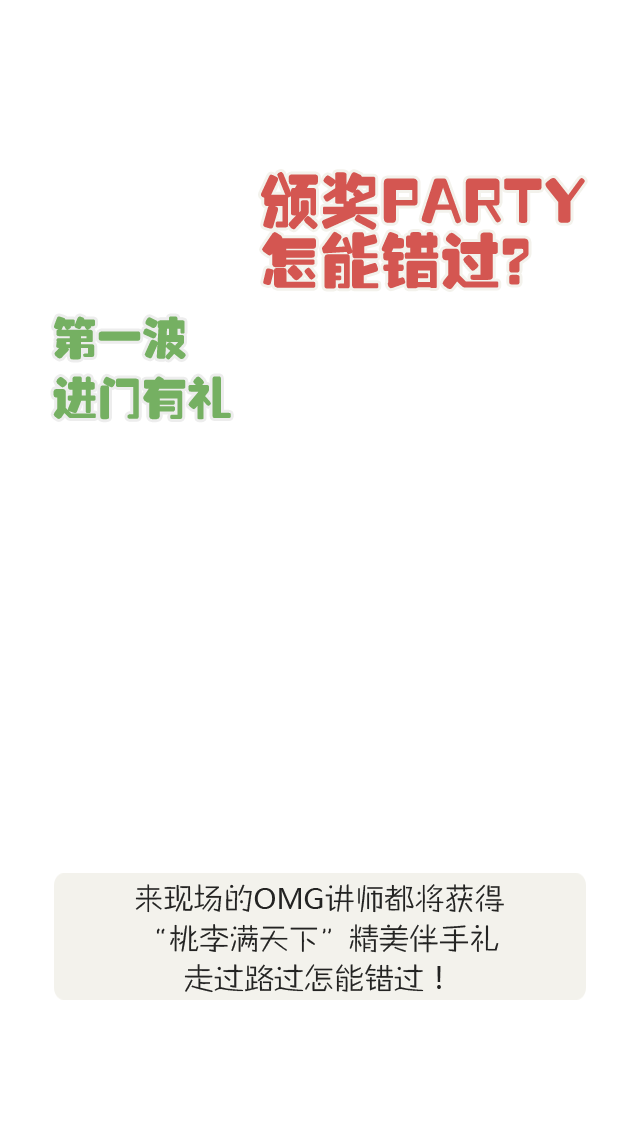
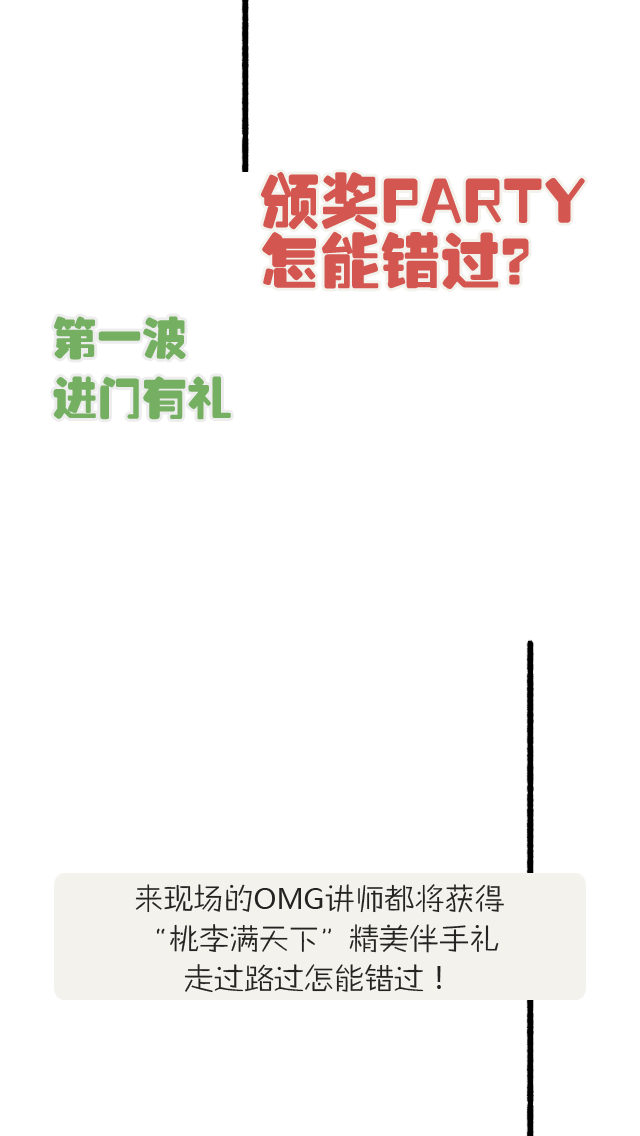
amend
amend

Changed region(s): [[0.8125, 0.5546, 0.8438, 0.7702], [0.8125, 0.8627, 0.8438, 1.0], [0.375, 0.0, 0.4062, 0.154]]

diff --git a/teacher/style.css b/teacher/style.css
@@ -100,6 +100,7 @@ body,html{width:100%;height:100%; position:relative;background: url("img/bg.jpg"
 .active .animate.fadeIn div {opacity:0;-webkit-animation: fadeIn 800ms 2000ms ease forwards;}
 .active .animate.seal div {opacity:0;-webkit-animation: seal 800ms 2600ms ease forwards;}
 .animate.seal div {opacity:0;}
+.active .animate.door div {-webkit-animation: door 500ms 800ms linear forwards;}
 .swipeUp {
     position: absolute;
     left: 50%;
@@ -156,6 +157,23 @@ body,html{width:100%;height:100%; position:relative;background: url("img/bg.jpg"
     to {
         opacity: 1;
         -webkit-transform: translate3d(0,0,-50px)
+    }
+}
+@-webkit-keyframes door {
+    0% {
+        opacity: 1
+    }
+    25% {
+        background-image: url("img/door2.png")
+    }
+    50% {
+        background-image: url("img/door3.png")
+    }
+    75% {
+        background-image: url("img/door4.png")
+    }
+    100% {
+        background-image: url("img/door5.png")
     }
 }
 @-webkit-keyframes page5 {
